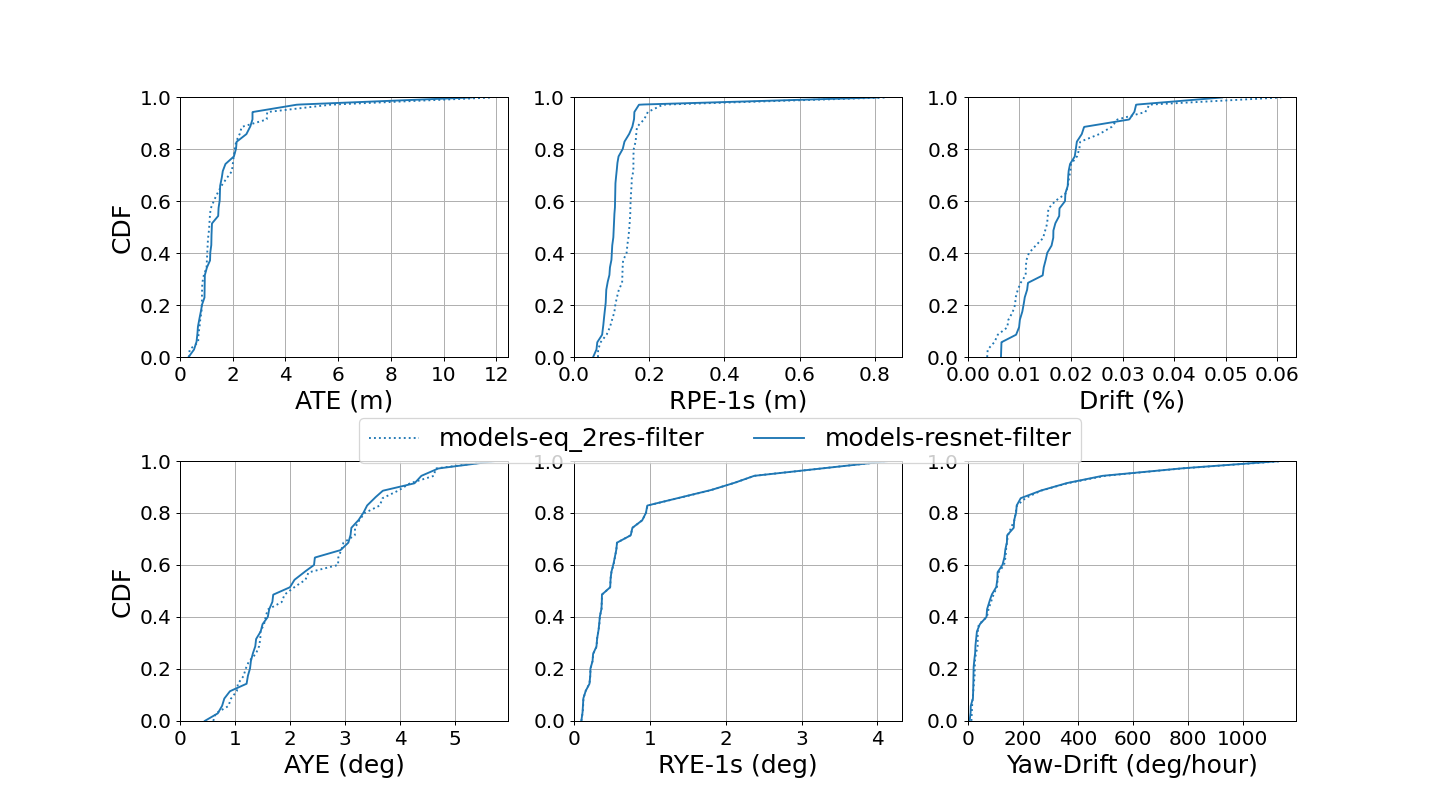
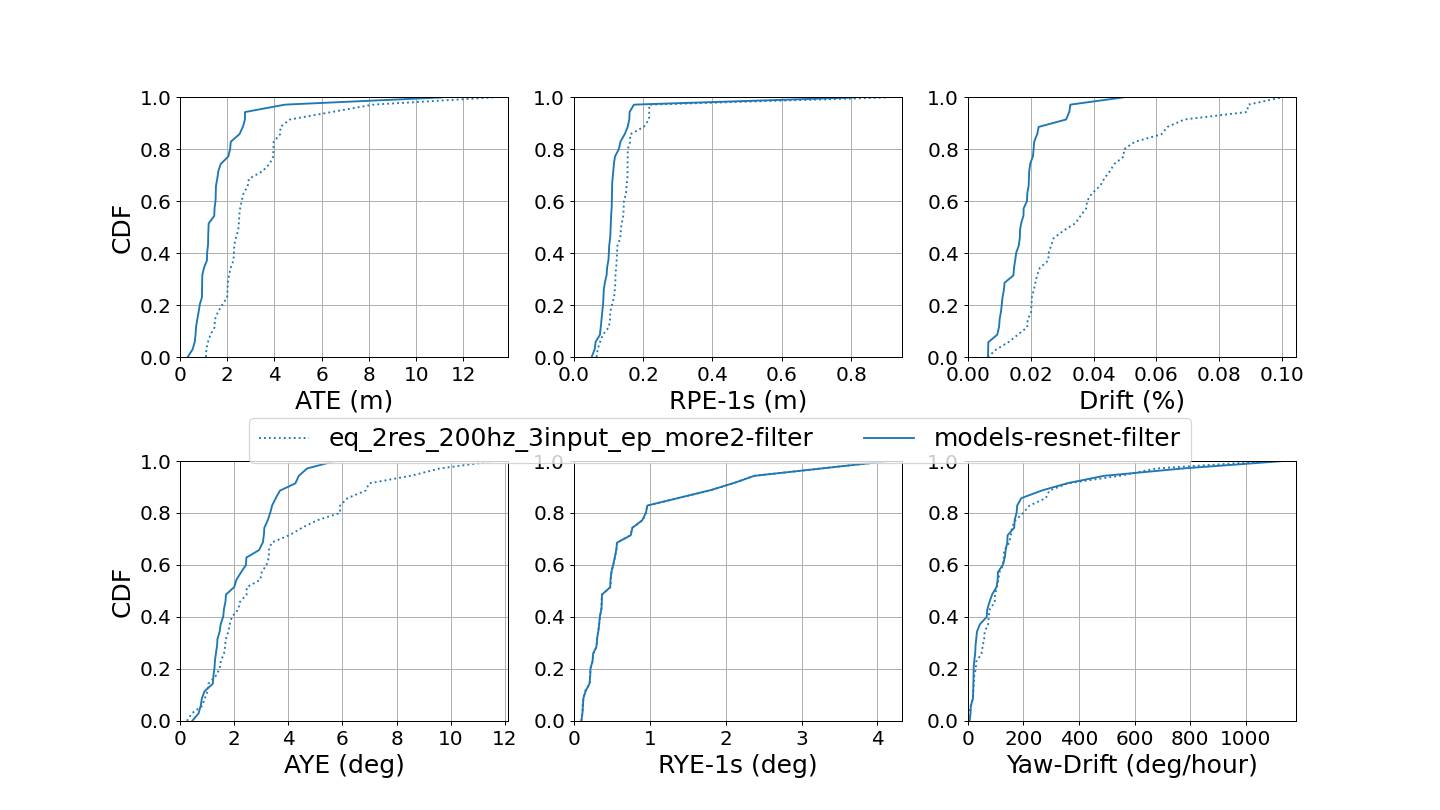
latest vino code, refactor code, loss fix, no update bias in riekf

diff --git a/src/network/test.py b/src/network/test.py
@@ -97,19 +97,28 @@ def pose_integrate(args, dataset, preds, use_pred_vel, body_frame):
     else:
         dp_t = args.window_time
         pred_vels = preds / dp_t
+        print("here")
     #dts = np.mean(ts[ind_intg[1:]] - ts[ind_intg[:-1]])
     dts = np.mean(ts[1:] - ts[:-1])
     #pos_intg = np.zeros([pred_vels.shape[0] + 1, args.output_dim])
     pos_intg = np.zeros([pred_vels.shape[0], args.output_dim])
     #pos_intg[0] = pos_gt[0]
     if use_pred_vel:
-        # displacement_intg = np.cumsum(pred_vels[:, :] * dts*1000000, axis=0)
-        displacement_intg = np.cumsum(pred_vels[:, :] * dts, axis=0)
+        if 'sim' in args.root_dir:
+            displacement_intg = np.cumsum(pred_vels[:, :] * dts * 1000000, axis=0)
+        else:
+            displacement_intg = np.cumsum(pred_vels[:, :] * dts, axis=0)
+            
+        # displacement_intg = np.cumsum(pred_vels[:, :] * dts, axis=0)
+        
         # R_z = Rotation.from_euler("xyz", [0, 0, -30], degrees=True).as_matrix()
         # print(r_gt.as_matrix()[0,:,:])
         # displacement_intg = np.einsum('jk,ik->ij', R_z, displacement_intg)
     else:
-        displacement_intg = np.cumsum(pred_vels[:, :] * dts, axis=0)
+        if 'sim' in args.root_dir:
+            displacement_intg = np.cumsum(pred_vels[:, :] * dts * 1000000, axis=0)
+        else:
+            displacement_intg = np.cumsum(pred_vels[:, :] * dts, axis=0)
     pos_intg =  displacement_intg+ pos_gt[0]
 
         # pos_gt = pos_intg_gt + pos_gt[0]
@@ -679,10 +688,14 @@ def net_test(args):
         # use_pred_vel = True
         # body_frame_3regress = True
         # body_frame = True
-        use_pred_vel = False
-        body_frame_3regress = False
-        body_frame = False
         
+        # use_pred_vel = False
+        # body_frame_3regress = False
+        # body_frame = False
+        
+        use_pred_vel = eval(args.body_frame)
+        body_frame_3regress = eval(args.body_frame)
+        body_frame = eval(args.body_frame)
         # Obtain trajectory
         start_t = time.time()
         net_attr_dict = get_inference(network, seq_loader, device, epoch=50, body_frame_3regress = body_frame_3regress)

diff --git a/src/network/train.py b/src/network/train.py
@@ -60,7 +60,11 @@ def get_inference(network, data_loader, device, epoch, body_frame_3regress = Fal
         if body_frame_3regress: 
             loss = get_loss(pred_vel, pred_cov, targ_vel, epoch, body_frame_3regress)
         else:
-            loss = get_loss(pred, pred_cov, targ, epoch, body_frame_3regress)
+            #1. use dt as target
+            # loss = get_loss(pred, pred_cov, targ, epoch, False)
+            
+            #2. use v as target
+            loss = get_loss(pred, pred_cov, targ_vel, epoch, False)
 
         targets_all.append(torch_to_numpy(targ))
         preds_all.append(torch_to_numpy(pred))
@@ -152,7 +156,7 @@ def do_train(network, train_loader, device, epoch, optimizer, transforms=[], bod
             # loss = get_loss(pred, pred_cov, targ, epoch, False)
             
             #2. use v as target
-            loss = get_loss(pred_vel, pred_cov, targ_vel, epoch, False)
+            loss = get_loss(pred, pred_cov, targ_vel, epoch, False)
 
         train_targets.append(torch_to_numpy(targ))
         train_preds.append(torch_to_numpy(pred))
@@ -370,8 +374,14 @@ def net_train(args):
     train_transforms = data.get_train_transforms()
 
     #train (world/bodyframe) imu data
-    body_frame = True
-    body_frame_3regress = True
+    # body_frame = True
+    # body_frame_3regress = True
+    
+    # body_frame = False
+    # body_frame_3regress = False
+    
+    body_frame = eval(args.body_frame)
+    body_frame_3regress = eval(args.body_frame)
     if not body_frame: 
         train_transforms = data.get_train_transforms()
     else:
@@ -488,7 +498,7 @@ def net_train(args):
         else:
             save_model(args, epoch, network, optimizer, best=False)
             
-        if epoch == 99 or epoch == 117 or epoch == 125 or epoch == 150 or epoch == 199 or epoch == 49 or epoch == 80 or epoch == 90:
+        if epoch in {49, 80, 90, 99, 109, 119, 129, 139, 149, 159, 199}:
             save_model(args, epoch, network, optimizer, best=False, interrupt=False)
     
     mean_epoch_time = np.mean(consumed_times)

diff --git a/src/models/utils/vn_dgcnn_util.py b/src/models/utils/vn_dgcnn_util.py
@@ -126,26 +126,33 @@ def get_vector_feature(x):
     
     _, num_dims, _ = x.size()
     
-    div = 6 #for 6D imu
+    # div = 6 #for 6D imu
     # div = 9 #for 6D imu + vel_body
-    assert num_dims % div == 0, f"{num_dims} is not divisible by {div}"
-    num_dims = int(num_dims / div)
+    # assert num_dims % div == 0, f"{num_dims} is not divisible by {div}"
+    # num_dims = int(num_dims / div)
+    # num_dims = 1
     
     x_acc = x[:,:3,:].transpose(2,1).contiguous() 
     x_ang = x[:,3:6,:].transpose(2,1).contiguous() 
-    if div == 9:
+    # if div == 9:
+    if num_dims == 9 :
         x_vel_body = x[:,6:9,:].transpose(2,1).contiguous() 
     
     # feature = x.view(batch_size*num_points, -1)[idx, :]
-    x_acc = x_acc.view(batch_size, num_points, num_dims, 3)
-    x_ang = x_ang.view(batch_size, num_points, num_dims, 3)
-    if div == 9:
-        x_vel_body = x_vel_body.view(batch_size, num_points, num_dims, 3)
+    x_acc = x_acc.view(batch_size, num_points, 1, 3)
+    x_ang = x_ang.view(batch_size, num_points, 1, 3)
+    # if div == 9:
+    if num_dims == 9 :
+        x_vel_body = x_vel_body.view(batch_size, num_points, 1, 3)
     
-    if div == 6 :
+    # if div == 6 :
+    if num_dims == 6 :
         feature = torch.cat((x_acc, x_ang), dim=2).contiguous()   
-    elif div == 9:
+    # elif div == 9:
+    elif num_dims == 9 :
+        # print("here")
         feature = torch.cat((x_acc, x_ang, x_vel_body), dim=2).contiguous()   
     else:
-        assert div == 6 or div == 9
+        # assert div == 6 or div == 9
+        assert num_dims == 6 or num_dims == 9
     return feature

diff --git a/src/network/model_factory.py b/src/network/model_factory.py
@@ -8,13 +8,13 @@ from network.eq_resnet_2res_bd import VN_BasicBlock1D, VN_ResNet1D    #6D or 9D
 # from network.eq_resnet_linear_1res import VN_BasicBlock1D, VN_ResNet1D
 
 # from network.model_resnet_1res_nodrop import BasicBlock1D, ResNet1D
-from network.model_resnet_2res_nodrop import BasicBlock1D, ResNet1D
+# from network.model_resnet_2res_nodrop import BasicBlock1D, ResNet1D
 # from network.model_resnet_3res_nodrop import BasicBlock1D, ResNet1D
 # from network.model_resnet_4res_nodrop import BasicBlock1D, ResNet1D
 
 # from network.model_vn_resnet_2 import VN_BasicBlock1D, VN_ResNet1D
 
-# from network.model_resnet import BasicBlock1D, ResNet1D
+from network.model_resnet import BasicBlock1D, ResNet1D
 
 
 # from network.model_resnet_2res_nodrop import BasicBlock1D, ResNet1D

diff --git a/src/network/losses.py b/src/network/losses.py
@@ -100,13 +100,14 @@ def get_loss(pred, pred_logstd, targ, epoch, body_frame_3regress = False):
         loss = loss_distribution_diag(pred, pred_logstd, targ)
     """
     use_DiagonalParam = 1 # diagonal : 1, pearson : 2, or entire cov : 3
-    # if epoch < 10:
-    if epoch < 30:
+    if epoch < 10:
+    # if epoch < 30:
         pred_logstd = pred_logstd.detach()
 
     if body_frame_3regress: 
       # loss = criterion_distribution(pred, pred_logstd, targ, use_DiagonalParam)
-      loss = loss_mse(pred, targ)
+      loss = loss_distribution_diag(pred, pred_logstd, targ)
+      # loss = loss_mse(pred, targ)
     else:
       # if epoch < 10 or epoch > 90:
       #   loss = loss_mse(pred, targ)

diff --git a/src/tracker/scekf.py b/src/tracker/scekf.py
@@ -559,8 +559,8 @@ class ImuMSCKF:
         self.state.s_R = X_new[0:3, 0:3]
         self.state.s_v = X_new[0:3, 3].reshape(-1, 1)
         self.state.s_p = X_new[0:3, 4].reshape(-1, 1)
-        self.state.s_ba = Theta_new[3:6].reshape(-1, 1)
-        self.state.s_bg = Theta_new[0:3].reshape(-1, 1)
+        # self.state.s_ba = Theta_new[3:6].reshape(-1, 1)
+        # self.state.s_bg = Theta_new[0:3].reshape(-1, 1)
         
         # self.state.si_Rs.append(self.state.s_R)  
         # self.state.si_vs.append(self.state.s_R.T @ self.state.s_v)  #save body velocity

diff --git a/src/main_net.py b/src/main_net.py
@@ -35,6 +35,8 @@ if __name__ == "__main__":
     parser.add_argument("--arch", type=str, default="vn_resnet")
     parser.add_argument("--cpu", action="store_true")
     parser.add_argument("--input_dim", type=int, default=6)
+    parser.add_argument("--body_frame", type=str, default="True")
+    # add_bool_arg(parser, "body_frame", default=True)
     parser.add_argument("--output_dim", type=int, default=3)
     parser.add_argument("-j", "--workers", type=int, default=4)
     parser.add_argument("--dataset_style", type=str, default="mmap", 

diff --git a/src/tracker/imu_tracker.py b/src/tracker/imu_tracker.py
@@ -313,8 +313,7 @@ class ImuTracker:
 
         # augmentation propagation / propagation
         # propagate at IMU input rate, augmentation propagation depends on t_augmentation_us
-        if not self.use_riekf : 
-            t_augmentation_us = self.next_aug_t_us if do_augmentation_and_update else None
+        t_augmentation_us = self.next_aug_t_us if do_augmentation_and_update else None
 
         # IMU interpolation and data saving for network (using compensated IMU)
         if do_interpolation_of_imu:

diff --git a/src/dataloader/sequences_dataset.py b/src/dataloader/sequences_dataset.py
@@ -258,6 +258,7 @@ class SequencesDataset:
 
     def data_chunk_from_seq_data(self, seq_data, seq_desc, row):
         # body_frame = True
+        # body_frame_velocity = True
         body_frame = False
         body_frame_velocity = False
         
